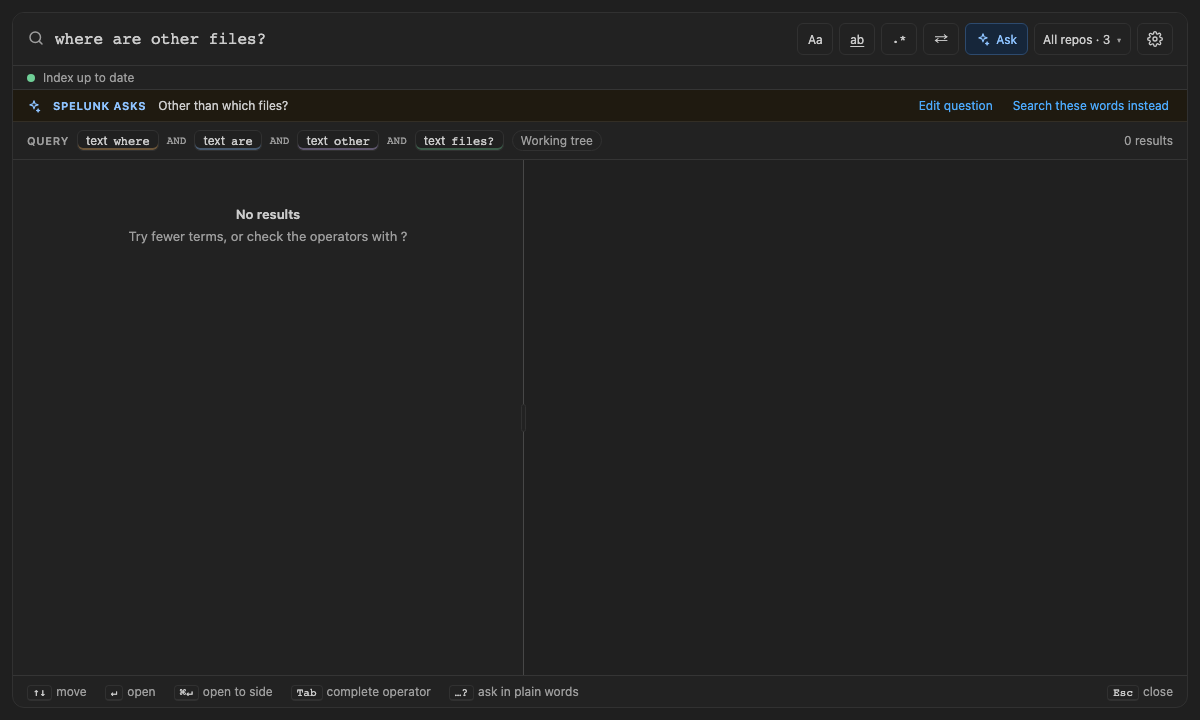
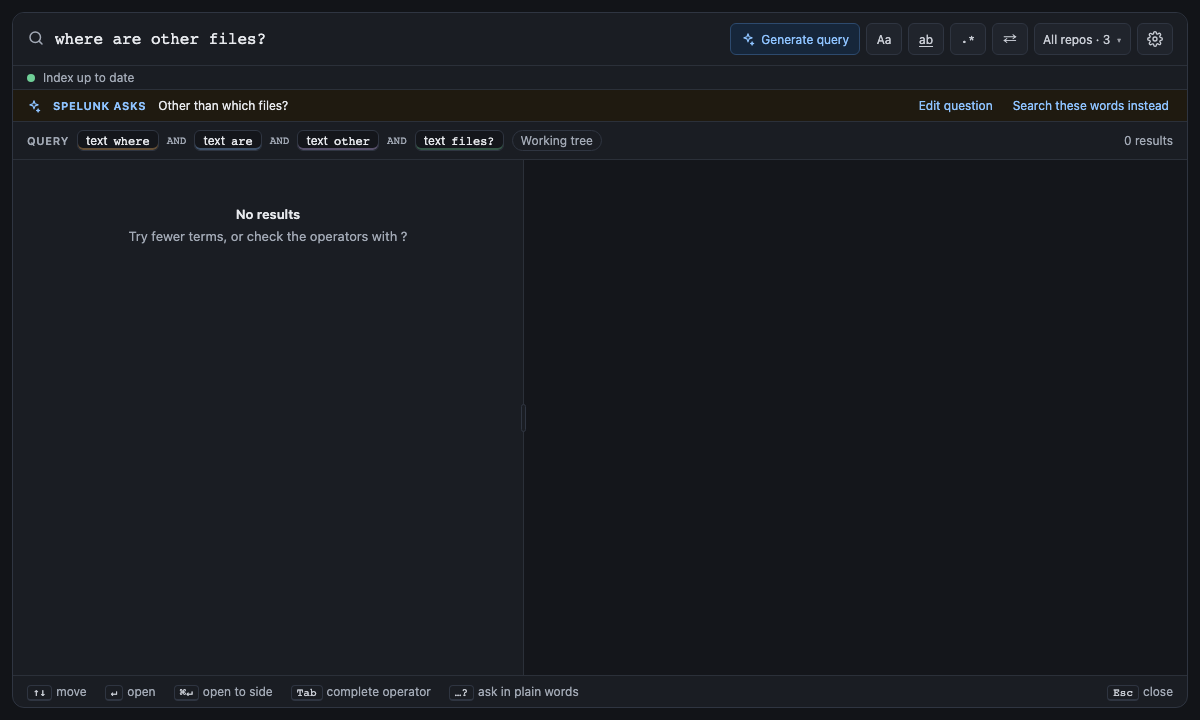
feat(webview): Generate query leads the toolbar; a query ending in ? searches as typed
The Ask button is now Generate query, first in the toolbar, left of Aa.

A box that uses search words (type:file match:fuzzy other?) was taken
for a question because it ended in ?, so Enter sent it to the model,
which dropped the ?. A box with search words is now a query whatever it
ends with, and Enter searches it as typed; Generate query still sends
any box to the model.

diff --git a/webview/src/layout.ts b/webview/src/layout.ts
@@ -145,7 +145,7 @@ function createReplaceToggle(): HTMLButtonElement {
   );
 }
 
-/** ✦ Ask: asks the box's question in plain words. */
+/** ✦ Generate query: turns the box's words, a question in plain words, into a query. */
 function createAskButton(): HTMLButtonElement {
   const sparkle =
     '<svg width="14" height="14" viewBox="0 0 24 24" fill="none" stroke="currentColor" stroke-width="2" stroke-linecap="round" stroke-linejoin="round" aria-hidden="true"><path d="M12 3l1.8 5.2L19 10l-5.2 1.8L12 17l-1.8-5.2L5 10l5.2-1.8z"/><path d="M19 17l.7 2 2 .7-2 .7-.7 2-.7-2-2-.7 2-.7z"/></svg>';
@@ -155,10 +155,11 @@ function createAskButton(): HTMLButtonElement {
       type: "button",
       class: "toggle ask",
       "data-testid": "ask",
-      "aria-label": "Ask in plain words",
-      title: "Ask in plain words: type a question, end it with ? or press this, and the query it becomes runs",
+      "aria-label": "Generate query",
+      title:
+        "Generate query: type what you want in plain words and press this (or end it with ?); the query it becomes runs",
     },
-    "Ask",
+    "Generate query",
   );
   button.insertAdjacentHTML("afterbegin", sparkle);
   return button;
@@ -224,11 +225,11 @@ export function createLayout(root: HTMLElement): Layout {
     element(
       "div",
       { class: "tools" },
+      askButton,
       caseButton,
       wordButton,
       regexButton,
       replaceButton,
-      askButton,
       element("span", { class: REPO_MENU_ANCHOR_CLASS }, reposButton, repoMenu),
       settingsButton,
     ),

diff --git a/webview/src/render/asked.ts b/webview/src/render/asked.ts
@@ -4,6 +4,7 @@
 // why it failed; and the Broaden note under no results.
 import { button, element } from "../format";
 import type { Layout } from "../layout";
+import { opNameFor } from "../operators";
 import type { AskedState, ViewState } from "../state";
 
 /** What the line's buttons do. */
@@ -129,10 +130,22 @@ export function broadenNote(onBroaden: () => void): HTMLElement {
   );
 }
 
-/** The question a box holds, without its final "?"; undefined when the box isn't a question. */
+/** Whether `text` uses a search word (type:, match:, -f: …): then it is a query, whatever it ends with. */
+function usesSearchWords(text: string): boolean {
+  return text.split(/\s+/).some((token) => {
+    const name = /^[-(]*([A-Za-z]+):/.exec(token)?.[1];
+    return name !== undefined && opNameFor(name) !== undefined;
+  });
+}
+
+/**
+ * The question a box holds, without its final "?"; undefined when the box
+ * isn't a question: it doesn't end in "?", or it uses search words, so a
+ * query such as `type:file other?` searches as typed.
+ */
 export function questionIn(text: string): string | undefined {
   const trimmed = text.trim();
-  if (!trimmed.endsWith("?") || trimmed.length < 2) return undefined;
+  if (!trimmed.endsWith("?") || trimmed.length < 2 || usesSearchWords(trimmed)) return undefined;
   const question = trimmed.slice(0, -1).trim();
   return question === "" ? undefined : question;
 }

diff --git a/docs/dev/progress.md b/docs/dev/progress.md
@@ -854,24 +854,23 @@ first segment fast because the branch's newest merge and its commits come first.
 
 ## Ask in plain words (2.1)
 
-Mock 62 (`ask-in-words`): a question ending in `?`, or the **Ask** button, goes to a provider that writes the Spelunk
-query, the daemon's parser checks it (one repair when it doesn't parse), and the panel puts it in the box under a line
-that says what was asked and what it was searched as, with the provider's one-line explanation and assumptions. The
-provider is Anthropic's Claude through the official SDK (`extension/src/ask.ts`: the system prompt is the daemon's
-`query/guide` text, which the operator table writes, plus the Recipes examples and the shared repo and team names;
-structured JSON output; the system prompt cached); `spelunk.ask.provider`, `spelunk.ask.model`, `spelunk.ask.effort` (the
-request's `output_config.effort`; the models API's `capabilities.effort` says which levels a model takes, asked once per
-model, so a level it lacks becomes the nearest it has and Claude 4.5 and older get none) and `spelunk.ask.shareNames`
-set it up, **Spelunk: Choose Ask Model** picks both from `models.list`, and **Spelunk: Set Anthropic API Key** keeps
-the key in secret storage and turns Ask on (`extension/src/askSetup.ts`). The panel's `ask` and `ask.setup` messages go
-through `AskRoute` (`extension/src/askRoute.ts`), which also fetches the CODEOWNERS teams from the `owner:` suggestions;
-the webview's
-`AskFlow` (`webview/src/askFlow.ts`) owns the question, the line (`render/asked.ts`) and Broaden. A question too vague
-to search without guessing comes back as `clarify` (the answer schema's question back; `AskResultMessage.clarify`), so
-no query is written and the box keeps the question. A test build takes a
-fake provider from `SPELUNK_ASK_FAKE`, which the screenshots use, so no screenshot or test calls a real provider. To
-keep `panel.ts` within its size, the box's keys moved to `webview/src/keys.ts` and the results view's handlers to
-`webview/src/resultHandlers.ts`.
+Mock 62 (`ask-in-words`): a question ending in `?`, or the **Generate query** button (first in the toolbar), goes to a
+provider that writes the Spelunk query, the daemon's parser checks it (one repair when it doesn't parse), and the panel
+puts it in the box under a line that says what was asked and what it was searched as, with the provider's one-line
+explanation and assumptions. The provider is Anthropic's Claude through the official SDK (`extension/src/ask.ts`: the
+system prompt is the daemon's `query/guide` text, which the operator table writes, plus the Recipes examples and the
+shared repo and team names; structured JSON output; the system prompt cached); `spelunk.ask.provider`,
+`spelunk.ask.model`, `spelunk.ask.effort` (the request's `output_config.effort`; the models API's `capabilities.effort`
+says which levels a model takes, asked once per model, so a level it lacks becomes the nearest it has and Claude 4.5 and
+older get none) and `spelunk.ask.shareNames` set it up, **Spelunk: Choose Ask Model** picks both from `models.list`, and
+**Spelunk: Set Anthropic API Key** keeps the key in secret storage and turns Ask on (`extension/src/askSetup.ts`). The
+panel's `ask` and `ask.setup` messages go through `AskRoute` (`extension/src/askRoute.ts`), which also fetches the
+CODEOWNERS teams from the `owner:` suggestions; the webview's `AskFlow` (`webview/src/askFlow.ts`) owns the question,
+the line (`render/asked.ts`) and Broaden. A question too vague to search without guessing comes back as `clarify` (the
+answer schema's question back; `AskResultMessage.clarify`), so no query is written and the box keeps the question. A
+test build takes a fake provider from `SPELUNK_ASK_FAKE`, which the screenshots use, so no screenshot or test calls a
+real provider. To keep `panel.ts` within its size, the box's keys moved to `webview/src/keys.ts` and the results view's
+handlers to `webview/src/resultHandlers.ts`.
 
 - Daemon: `daemon/internal/server/parse_test.go` (`query/guide` names every operator).
 - Host: `extension/src/test/ask.test.ts` (the question becomes the provider's query, checked by the parser; one repair
@@ -881,9 +880,10 @@ keep `panel.ts` within its size, the box's keys moved to `webview/src/keys.ts` a
   without Ask set up), `settings.test.ts` (the ask settings and their fallbacks) and `manifest.test.ts` (the section
   and the command).
 - Panel: `webview/test/askInWords.test.mjs` (Enter on a question asks it and the answer's query runs under the line,
-  Edit question, which reports the words to the host as typing would; a question back for a vague question, the box
-  kept as typed and nothing searched; the Ask button; a query that doesn't parse shown with its error; Broaden; no key,
-  Set API key and Search these words instead; Ask off).
+  Edit question, which reports the words to the host as typing would; a question back for a vague question, the box kept
+  as typed and nothing searched; Generate query, first in the toolbar; a box with search words ending in `?` searched as
+  typed; a query that doesn't parse shown with its error; Broaden; no key, Set API key and Search these words instead;
+  Ask off).
 - Built: `docs/dev/proof/ask-in-words.png` (`which methods use RetryPolicy?`),
   `docs/dev/proof/ask-in-words-broaden.png` (`functions that call charge_card?`, no results, Broaden) and
   `docs/dev/proof/ask-in-words-clarify.png` (`where are other files?`, **Spelunk asks** "Other than which files?"), from

diff --git a/CHANGELOG.md b/CHANGELOG.md
@@ -9,17 +9,17 @@ All notable changes to this project are documented here. The format follows
 
 ### Added
 
-- **Ask in plain words.** Type a question the way you'd say it and end it with `?`, or press the new **Ask** button,
-  and Spelunk writes the query for you, shows it under the box (**You asked** … · **Searched as** …, with what it
-  had to assume) and runs it. A question about who changed something, or when, becomes a history search; when the
-  query finds nothing, **Broaden** asks for one looser query. The provider is Anthropic's Claude (`spelunk.ask.provider`,
-  off by default; **Spelunk: Set Anthropic API Key** keeps the key in VS Code's secret storage and turns Ask on); only
-  the question, the repo names and the CODEOWNERS team names go to it (`spelunk.ask.shareNames` sends the question
-  alone), never your code. `spelunk.ask.model` picks the model and `spelunk.ask.effort` how long it thinks;
-  **Spelunk: Choose Ask Model** lists the models your key can use, with the effort levels each takes, and sets both.
-  A question too vague to search without guessing ("where are other files?") gets a question back (**Spelunk asks**
-  "Other than which files?") instead of a made-up query, and **Edit question** puts your words back as typed.
-  The daemon's parser checks every query it writes, and a query that doesn't parse goes back once for a repair.
+- **Ask in plain words.** Type a question the way you'd say it and end it with `?`, or press the new **Generate query**
+  button, and Spelunk writes the query for you, shows it under the box (**You asked** … · **Searched as** …, with what
+  it had to assume) and runs it. A question about who changed something, or when, becomes a history search; when the
+  query finds nothing, **Broaden** asks for one looser query. The provider is Anthropic's Claude
+  (`spelunk.ask.provider`, off by default; **Spelunk: Set Anthropic API Key** keeps the key in VS Code's secret storage
+  and turns Ask on); only the question, the repo names and the CODEOWNERS team names go to it (`spelunk.ask.shareNames`
+  sends the question alone), never your code. `spelunk.ask.model` picks the model and `spelunk.ask.effort` how long it
+  thinks; **Spelunk: Choose Ask Model** lists the models your key can use, with the effort levels each takes, and sets
+  both. A question too vague to search without guessing ("where are other files?") gets a question back (**Spelunk
+  asks** "Other than which files?") instead of a made-up query, and **Edit question** puts your words back as typed. The
+  daemon's parser checks every query it writes, and a query that doesn't parse goes back once for a repair.
 - **History follows files through renames.** `file:retry_policy.py` finds a file's commits under every name it had,
   each saying what the file is called now, and marks the commits that renamed it. A commit that only moved a file no
   longer counts every line as added, so `type:added` finds the commit that wrote a line. A search at an old release

diff --git a/docs/dev/mocks.md b/docs/dev/mocks.md
@@ -64,4 +64,4 @@ covered.
 | 59 | History through renames: a file's commits under every name it had, renames marked, and the name each file has now | `history-renames` | `HistoryRenamesMerges` | 2.1 |
 | 60 | Jupyter notebooks: searched by their cells, each result under its cell, opened at that cell | `notebook-cells` | `NotebookCells` | 2.1 |
 | 61 | Hover labels: rest the mouse on an icon and its name shows in a third of a second | `hover-labels` | `HoverLabels` | 2.1 |
-| 62 | Ask in plain words: a question ending in `?`, or the Ask button, becomes a query shown under the box, which runs | `ask-in-words` | `AskInWords` | 2.1 |
+| 62 | Ask in plain words: a question ending in `?`, or the Generate query button, becomes a query shown under the box, which runs | `ask-in-words` | `AskInWords` | 2.1 |
